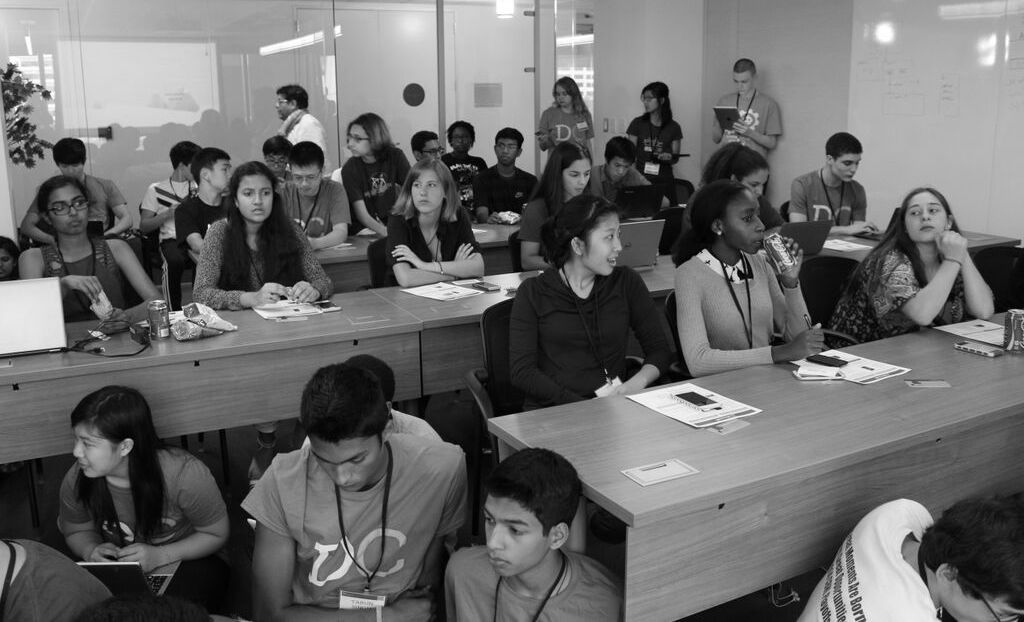
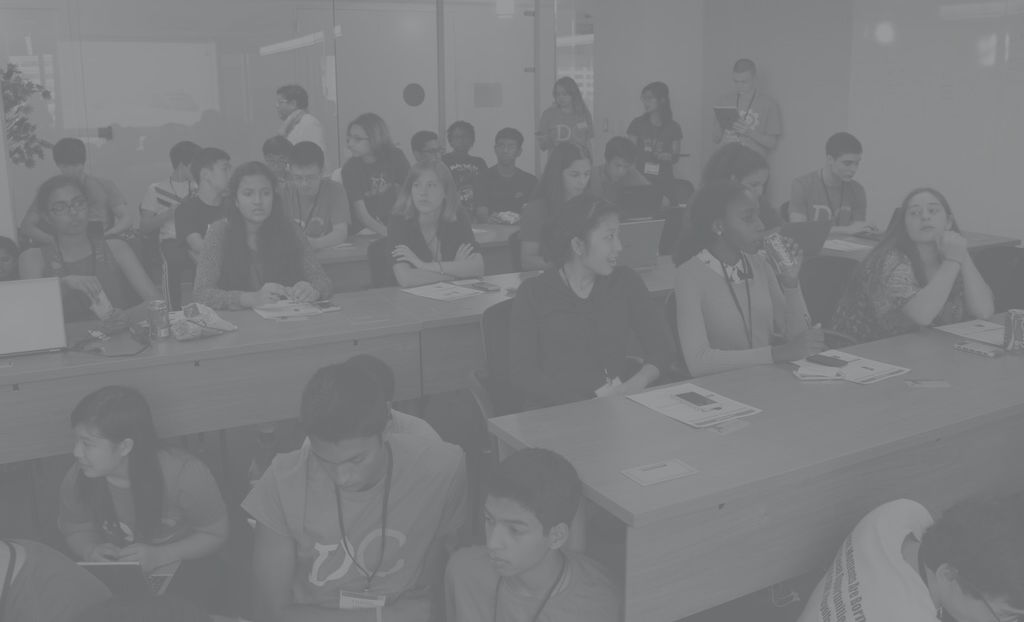
Add bg overlay and fix title font weight

diff --git a/index.html b/index.html
@@ -58,7 +58,7 @@
 		<!-- Banner -->
 		<section id="banner">
 			<br>
-			<h2><span style="color:#0AA0D9">DC</span><span style="color:white">Hacks</span> II</h2>
+			<strong><h2 style="font-weight: 900"><span style="color:#0AA0D9;">DC</span><span style="color:white">Hacks</span> II</h2></strong>
 			<p>June 25th - 26th, 2016</p>
 			<br>
 			<br>
